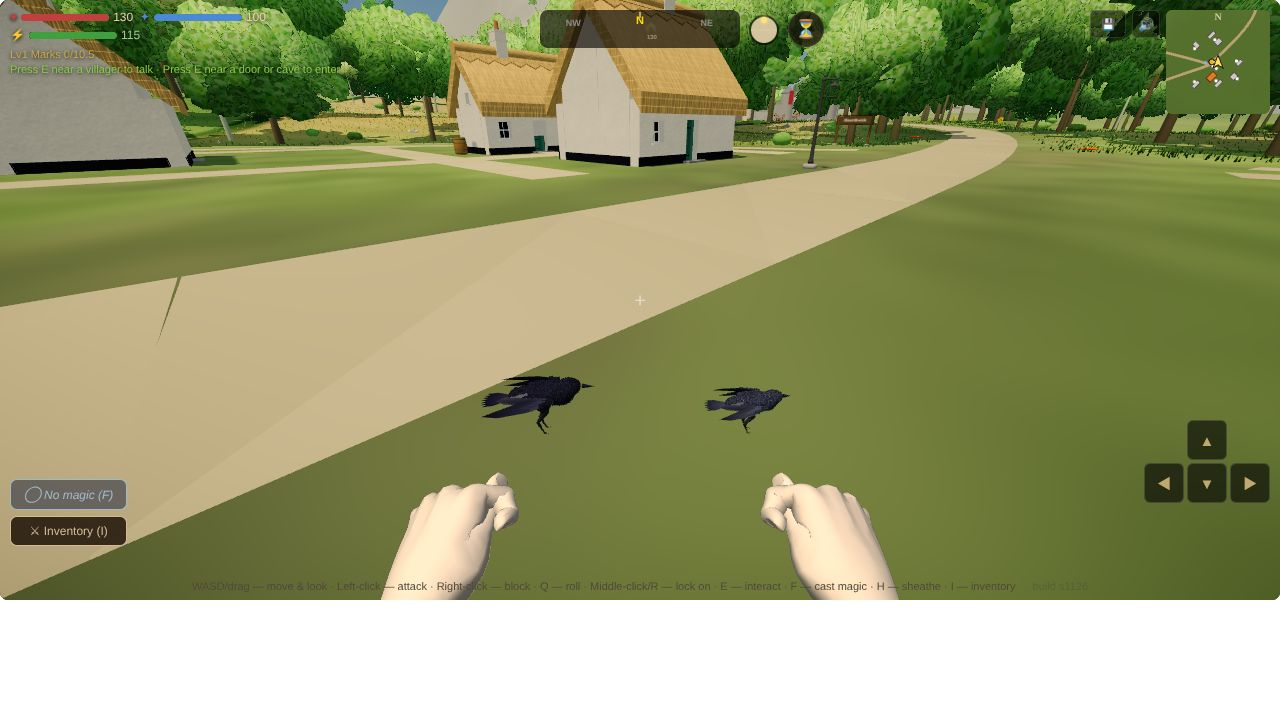
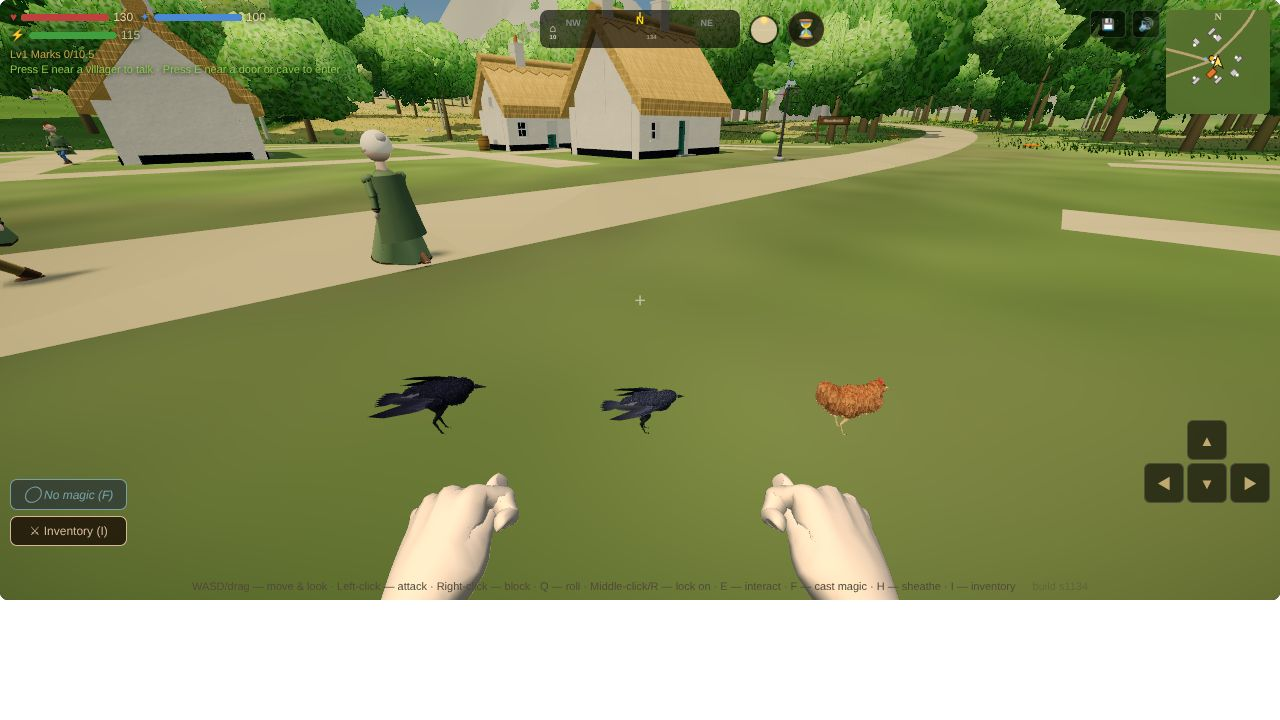
Bodies: Session 1720 — the hen on the birds' path
buildAnimal('Hen', key): the kit's hen fitted over a stand-in, keyed farm:<key>; she
runs at a trot and never soars. f4animals extended, all green.

Claude-Session: https://claude.ai/code/session_019eFMMo11AthDjCdRLAKQE3

diff --git a/js/34-creatures.js b/js/34-creatures.js
@@ -314,6 +314,9 @@ function buildAnimal(name,key){if(BIRD[name])return buildBird(name,key);if(SWIMM
 // fly), else by the ground its group covers a second, standing, walking or hopping, the phase advanced by the ground covered over the
 // kit's own stride (the feet stay put). Killed, it is left as the kill laid it. A raven is 0.58 m from beak to tail, a crow 0.45
 const BIRD={Raven:{len:.58,col:0x141416,hop:.9},Crow:{len:.45,col:0x19191c,hop:.7},air:.3,walk:.05,beat:1.7};
+// Session 1719: the farms' hen (L3 livestock, OG-023 and OG-035; the kit's plan since Session 844) on the same path, keyed farm:<key>. She
+// does not fly: lifted, she keeps her ground gaits, and fast she runs at the kit's trot (run), not a hop. 0.40 m from beak to tail
+BIRD.Hen={len:.4,col:0x99602e,hop:.8,run:'trot',farm:true};
 function birdStandIn(len,col){const k=len/.535,parts=[],M=new THREE.Matrix4(),put=(geo,x,y,z,sx,sy,sz,rx)=>{M.makeRotationX(rx||0);
     const g=geo.index?geo.toNonIndexed():geo;g.applyMatrix4(new THREE.Matrix4().makeScale(sx,sy,sz).premultiply(M).premultiply(new THREE.Matrix4().makeTranslation(x*k,y*k,z*k)));parts.push(g);};
   put(new THREE.SphereGeometry(1,10,7),0,.17,0,.08*k,.075*k,.17*k);put(new THREE.SphereGeometry(.055*k,8,6),0,.25,.15,1,1,1);
@@ -324,7 +327,7 @@ function birdStandIn(len,col){const k=len/.535,parts=[],M=new THREE.Matrix4(),pu
   const geo=new THREE.BufferGeometry();geo.setAttribute('position',new THREE.BufferAttribute(P,3));geo.setAttribute('normal',new THREE.BufferAttribute(N,3));geo.computeBoundingSphere();
   const m=new THREE.Mesh(geo,new THREE.MeshLambertMaterial({color:col}));m.castShadow=true;m.name='bird';return m;}
 function buildBird(name,key){const B=BIRD[name];if(!B)return null;const root=new THREE.Group();root.name='kitroot';const mesh=birdStandIn(B.len,B.col);root.add(mesh);
-  const rig={name,bird:true,fish:true,crawl:true,gait:'stand',k:{bird:true},root,mesh,e:null,hcKey:'wild:'+(key!=null?key:name),reach:1,ph:0,t:0,lx:null,lz:null,v:0,tris:mesh.geometry.attributes.position.count/3};
+  const rig={name,bird:true,fish:true,crawl:true,gait:'stand',k:{bird:true},root,mesh,e:null,hcKey:(B.farm?'farm:':'wild:')+(key!=null?key:name),reach:1,ph:0,t:0,lx:null,lz:null,v:0,tris:mesh.geometry.attributes.position.count/3};
   root.userData.rig=rig;return rig;}
 // the bird's pose, near: the gait by where its group is, the phase by the ground it covers (or by the clock aloft and standing)
 function hcBirdPose(rig){const H=rig.hc,e=rig.e,g=e&&e.mesh;if(!H||!g||e.dead)return;const now=performance.now()/1000,dt=rig.t?Math.min(.1,now-rig.t):0;rig.t=now;
@@ -332,7 +335,7 @@ function hcBirdPose(rig){const H=rig.hc,e=rig.e,g=e&&e.mesh;if(!H||!g||e.dead)re
   const x=g.position.x,z=g.position.z;let d=rig.lx==null?0:Math.hypot(x-rig.lx,z-rig.lz);rig.lx=x;rig.lz=z;if(d>2)d=0;
   rig.v=dt>0?rig.v+(d/dt-rig.v)*Math.min(1,dt*6):rig.v;
   const gy=typeof activeTerrainH==='function'?activeTerrainH(x,z):g.position.y,up=g.position.y-gy>BIRD.air,B=BIRD[rig.name]||BIRD.Raven;
-  const gait=up?'soar':rig.v>B.hop?'hop':rig.v>BIRD.walk?'walk':'stand',C=H.C;
+  const gait=up&&!B.run?'soar':rig.v>B.hop?(B.run||'hop'):rig.v>BIRD.walk?'walk':'stand',C=H.C;
   C.gait=gait;
   if(gait==='soar'||gait==='stand')rig.ph+=dt*(gait==='soar'?BIRD.beat:.25);else rig.ph+=d/Math.max(1e-3,HC.strideOf(C)*H.f);
   HC.pose(C,rig.ph);
@@ -883,7 +886,7 @@ const HC_KINDS={'Wolf':{plan:'wolf'},'Snow Wolf':{plan:'wolf',own:true},'Dire Wo
   'Gargoyle':{plan:'gargoyle',own:true,person:true,merge:true,ik:true,glow:[1,.31,.13],glowR:.032,glowAt:{f:.8,up:.55,out:.5},garg:true},
   'Wraith':{plan:'wraith',own:true,person:true,legless:true,rest:HC_WRAITH_REST},'Phantom':{plan:'phantom',own:true,person:true,legless:true,rest:HC_WRAITH_REST},
   'Deer':{plan:'deer',ik:true},'Hind':{plan:'deer',own:true,ik:true,bare:true},'Red Fox':{plan:'redfox'},'Brown Hare':{plan:'brownhare'},'Badger':{plan:'badger'},'Otter':{plan:'otter'},'Cow':{plan:'cow',ik:true},'Sheep':{plan:'sheep',ik:true},'Goat':{plan:'goat',ik:true},
-  'Shark':{plan:'reefshark',fish:true},'Whale':{plan:'stormwhale',fish:true},'Dolphin':{plan:'stormswift',fish:true},'Gull':{plan:'gull',fish:true,own:true,cell:.014},'Raven':{plan:'raven',fish:true,own:true,cell:.014},'Crow':{plan:'crow',fish:true,own:true,cell:.012},'Trout':{plan:'trout',fish:true,own:true,cell:.014},'Slime':{plan:'slime',fish:true},'Fire Elemental':{plan:'fireelemental',fish:true}};
+  'Shark':{plan:'reefshark',fish:true},'Whale':{plan:'stormwhale',fish:true},'Dolphin':{plan:'stormswift',fish:true},'Gull':{plan:'gull',fish:true,own:true,cell:.014},'Raven':{plan:'raven',fish:true,own:true,cell:.014},'Crow':{plan:'crow',fish:true,own:true,cell:.012},'Trout':{plan:'trout',fish:true,own:true,cell:.014},'Hen':{plan:'hen',fish:true,own:true,cell:.012},'Slime':{plan:'slime',fish:true},'Fire Elemental':{plan:'fireelemental',fish:true}};
 // the driver's joints and the kit's bones they move, parents first (the kit's front legs hang on spine3, the hind on spine0)
 const HC_MAP=[['hips','spine0'],['spine','spine1'],['neck','neck0'],['head','head'],['jaw','jaw'],['tail1','tail0'],['tail2','tail1'],['tail3','tail2'],
   ['shL','leg0L_0'],['elL','leg0L_1'],['wrL','leg0L_2'],['pfL','leg0L_3'],['shR','leg0R_0'],['elR','leg0R_1'],['wrR','leg0R_2'],['pfR','leg0R_3'],

diff --git a/docs/backlog.md b/docs/backlog.md
@@ -556,7 +556,7 @@ Michael marked all 96 images of the intake on the review page: 63 KEEP and 33 NO
 - **Aurenne's fifteen** (OG-030): Duneskimmer, Terrace Ram, Oasis Hare, Scarlet Ibis, Mirage Fox, Cliffswift, Amber Shellcrab (harvestable), Cypress Stalker, Glasswing Moth (an ingredient), Sunbeak Vulture, Spined Gekko; the Saltspine Monitor hostile; the Dunescorpion as the Sand Scorpion's skin; the Sand Wyrm as a set piece known by its funnels. **Fourteen are plans in the kit, Session 848** (bodies builder; `creatures.js` `AURENNE`, `creatures-aurenne.jpg`); owed: the game, after F4; ~~the Glasswing Moth~~ — done, Session 864 (a moth's glass wings in the kit), so all fifteen are plans.
 - **The strange beasts** (OG-040): the Crownstag, the Mossback (a tortoise carrying a garden), the Bellthroat (its call at dusk), the Lanternfox, the Thornrunner; the Shatterhorn, the Frostmane (a pack beast), the Glasswing, the Stonejaw, the Stormplume; the Redcrest, the Sunfan, the Mineprowler, the Sailshell. Wonder without menace, mostly peaceful. A few have six legs, and that is ordinary (Michael's 9 A). **All fourteen are plans in the kit, Session 853** (bodies builder; `creatures.js` `STRANGE`, `creatures-strange.jpg`): six from Sessions 773 to 775 and eight new (the Crownstag, the Lanternfox, the Thornrunner, the Frostmane, the Glasswing, the Stonejaw, the Redcrest, the Sunfan); owed: the game, after F4.
 - **The sea** (OG-016, OG-084, OG-031): tidecrab, moray, rays, lantern jelly, flying fish, squid, seals, dolphins, octopus, turtles; the Shatterback and the maw turtle as landmarks mistaken for rock; the gate eel and the Gate Leviathan as a sea gate's antibodies (the Mouth, the Vault of the Tide), seams glowing. **Seventeen are plans in the kit, Session 854** (bodies builder; `creatures.js` `SEA`, `creatures-sea.jpg`): the reef moray, the starweed and sailfin rays, the lantern jelly, the coastal tuna, the skyskimmer, the Stormswift (a dolphin), the drifter squid, the reef shark (~~a shark of its own, not the salmon recoloured~~ — done, Session 1528: the game's shark, Michael's A on S230, as the brief; `creatures-reefshark*.jpg`; ~~the gill bands' chequer~~ — done, Session 1530 (slits as ribbons on the grown skin, `gillSlits`); ~~owed: the game's Shark wearing it~~ — done, Session 1529: on the new look, posed by the kit's swim gait at the old tail's beat, `hcFishRig`; `f4sharks`), the grey seal, the blackcurrent eel, the gate eel and the Gate Leviathan, beside the Tidecrab, the Storm Whale (~~the game's whales wearing it~~ — done, Session 1536: on the new look, `hcWhaleRig`, the fluke's beat at a quarter stroke a second; `f4sharks`; ~~the bow-wave dolphins as the Stormswift~~ — done, Session 1537, `hcDolphinRig`), the octopus and the Shatterback; owed: the game, after F4; ~~the kelpstrider~~ — done, Session 863 (leafy fronds in the kit); ~~the pierwinkle~~ — done, Session 862 (a coiled shell in the kit); ~~the stonefish, the abyssal angler and the crimson leviathan~~ — done, Session 856; ~~turtles (a sea turtle and the maw turtle need flippers)~~ — done, Session 861 (flippers in the kit: flattened arms that stroke). ~~The ports' gulls on the kit~~ — done, Session 1595 (a `gull` plan, the raven's flier in a herring gull's colours, `SHORE`; on the new look `spawnGulls`' four wear it, `hcGullRig`, 4,252 triangles each at the game's cell; `f4sharks`, `docs/prototypes/f4/f4-gull.jpg`, `creatures-gull*.jpg`). ~~The shallows' fish schools on the kit~~ — done, Session 1599 (a `herring` plan in `SHORE`, the salmon's body slimmer and silver under a blue-green back, `saddleUp` in the kit; on the new look every school within 35 m of the eye draws it baked once and instanced, its tail swung in the shader, `hcSchools`; the old cones past it; `f4sharks`, `docs/prototypes/f4/f4-herring.jpg`, `creatures-herring.jpg`).
-- **Livestock** (OG-023, OG-035): chickens, goats, sheep, cows and bees on farms and in fields. **Prototyped as plans in the kit, Session 844** (bodies builder; `creatures.js` `LIVESTOCK`, `creatures-livestock.jpg`): the cow, the sheep, the goat and the hen build and walk; owed: the bees (not skeletal), and the game (after F4): ~~the cow, the sheep and the goat~~ in it since Session 1719 (`buildAnimal`, keyed `farm:<key>`, on the deer's legs; `f4animals`), the hen still owed (a bird's legs, not the wolf's driver), and their place on the farms (a spawn: the systems builder's, or the look builder's farm dressing); ~~breeds by island~~ — done, Session 866 (`COATS`); ~~a cow's patches~~ — done, Session 845 (a patches pattern in the kit).
+- **Livestock** (OG-023, OG-035): chickens, goats, sheep, cows and bees on farms and in fields. **Prototyped as plans in the kit, Session 844** (bodies builder; `creatures.js` `LIVESTOCK`, `creatures-livestock.jpg`): the cow, the sheep, the goat and the hen build and walk; owed: the bees (not skeletal), and the game (after F4): ~~the cow, the sheep and the goat~~ in it since Session 1719 (`buildAnimal`, keyed `farm:<key>`, on the deer's legs; `f4animals`), ~~the hen~~ since Session 1720 (the birds' path, no driver; she runs at a trot and never soars), and their place on the farms (a spawn: the systems builder's, or the look builder's farm dressing); ~~breeds by island~~ — done, Session 866 (`COATS`); ~~a cow's patches~~ — done, Session 845 (a patches pattern in the kit).
 - **Beasts of burden and wagons** (OG-046, OG-077): horse, mule, donkey, ox, camel, reindeer, yak; covered and merchant wagons, the stagecoach, supply carts on the roads. OG-077's post-rider on a horse-sized hare is the brief's licence made ordinary: one on the Gatelands' roads. **The animals are plans in the kit, Session 855** (bodies builder; `creatures.js` `BURDEN`, `creatures-burden.jpg`): the horse, the mule, the donkey, the ox, the camel, the reindeer, the highland yak and a saddled giant goat, beside the post hare (Session 773); OG-046's llama is the Frostmane and its cow the livestock's. Owed: the wagons and carts (props: the look builder's), and the game, after F4; ~~harness and packs~~ — done, Session 867 (`packs` and `harness` in the kit: the pack mule, the draught horse, the yoked ox). **The horse heavier, Session 1261** (bodies builder; S1251 found the kit's horse a thin-legged foal at the coach's size): a deeper barrel, a deep flat neck with a mane (the kit's new `mane`, a crest in its own tone), a broader head, legs a third thicker, a full tail; the draught horse's collar fitted to the grown skin. ~~the coach's team on it (a key per horse from `buildCoachLine`)~~ — done, Session 1273 (the bay and the grey on the kit's horse behind the new look, keyed `coach:<road>:<i>`, each leg bent onto the driver's hoof height, `hcLegIK`; `f4beasts`).
 
 ### L4. The gates' foes (with C's gates by school)

diff --git a/docs/devlog/1720.md b/docs/devlog/1720.md
@@ -1,0 +1,26 @@
+## v80 — Session 1720 — the hen: the farms' bird, on the raven's path
+The bodies builder's run of 2 Nov, its second item: the hen, the last of L3's livestock with a skeleton (the bees have none), left out of
+S1719 because she stands on two bird's legs and the wolf's driver has four.
+
+The raven and the crow (S1710) already walk the path a two-legged body needs: no driver, a plain stand-in for the far level and the old look,
+and near the kit's own body fitted to the stand-in's length (`hcFishAttach`'s crawl branch, feet on the group's ground), its gait read from
+the group's motion by `hcBirdPose`. The hen joins it (`34-creatures.js`):
+- `BIRD.Hen`: 0.40 m beak to tail, the stand-in in the plan's chestnut (0x99602e). `buildAnimal('Hen', key)` builds her; her kit body is
+  keyed `farm:<key>` (`farm` on her row, as on the cow's), the wild birds' still `wild:<key>`.
+- `run:'trot'`: a hen does not fly. Fast (over 0.8 m/s by her ground) she runs at the kit plan's trot, not a hop, and lifted off the ground
+  she keeps her ground gaits instead of soaring. The raven and the crow are unchanged.
+- `HC_KINDS.Hen`: the kit's plan (Session 844, the farm hen with her comb), its own genome `game:Hen`, built at a cell of 0.012.
+
+The stand-in is the raven's shape in her colour; it is seen past 40 m or on the old look. A hen of her own shape there is owed if a farm's
+flock reads wrong at a distance.
+
+### Verified (headless Chromium)
+`f4animals` 1/1, every check green. The hen wears `game:Hen` keyed `farm:f4birds:2`, 18 bones, 5,388 triangles over the 264-triangle
+stand-in, not in `WOLF_RIGS`; 0.400 m beak to tail, her top 0.348 m over the ground, her feet on it (0 m). By her group: still *stand*,
+0.4 m/s *walk*, 1.6 m/s *trot*, lifted 4 m and driven at 6 m/s still *trot* (her spine 0.214 m over the group, as standing); the bone
+matrices move 0.19, 0.14 and 0.12 between the four. The raven's and the crow's checks unchanged (4,108 and 5,864 triangles, *soar* aloft).
+`parsecheck` clean. Picture: `docs/prototypes/f4/f4-birds.jpg` (the raven, the crow and the hen on Dunmore's green).
+
+### Needs eyes
+Her trot against a real hen's scurry once a farm holds them. Nothing spawns her yet: a farm's dressing or a spawn row (systems or look
+builder) calls `buildAnimal('Hen', '<site>:<lot>:<i>')` and sets `rig.e`, as for a crow.
